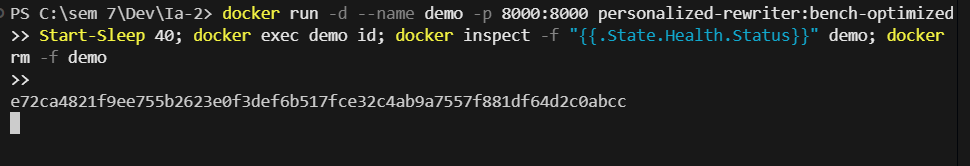
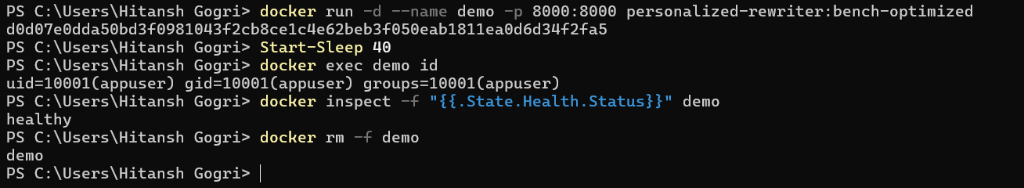
LT-I evidence: blind CI diagnosis screenshots, CI duration screenshots, EXP-03 timing and both AI runs

Changed region(s): [[0.0, 0.0301, 0.9897, 0.9639]]

diff --git a/docs/experiment_log.md b/docs/experiment_log.md
@@ -111,7 +111,7 @@ GitHub-hosted runners start clean, so every run pulls the base image. The smalle
 | Date | 2026-09-27 |
 | Purpose | DEVOPS AI: does AI reduce the effort to find the root cause of a failed pipeline? |
 | Setup | A realistic validation bug was introduced on branch `demo/run-a` (PR #9) **without revealing it to the developer** (PROJECT_PLAN D8) |
-| Failed run | 36330985633 (`test` failed: 3 failed, 36 passed; later stages skipped) |
+| Failed runs | 36330985633 (#14) and 36330985512 (#13), the same commit, triggered twice by a simultaneous force-push of `main` and the PR branch (`test` failed: 3 failed, 36 passed; later stages skipped) |
 | Input to AI | Sanitized `test` log + job results |
 | Prompt version | `ci-v1` |
 | Model returned | `nvidia/nemotron-3-super-120b-a12b:free` · 2049 prompt / 511 completion tokens |
@@ -120,8 +120,11 @@ GitHub-hosted runners start clean, so every run pulls the base image. The smalle
 
 | | Stage | Root cause | File / line | Time |
 |---|---|---|---|---|
-| Developer (manual, raw log only) | ✅ test | ❌ not identified | ❌ not identified | stopped without a diagnosis |
-| DevOps AI | ✅ test | ✅ "validation for empty/whitespace notes missing; returns 200 instead of 422" | ⚠ `tests/test_validation.py:9`: where the failure surfaced, not the source file | **3965 ms** |
+| Developer (manual, raw log only) | ✅ test | ❌ not identified | ❌ not identified | stopped after ~2–3 min without identifying the cause or file |
+| DevOps AI, run #14 | ✅ test | ✅ "validation for empty/whitespace notes missing; returns 200 instead of 422" | ⚠ `tests/test_validation.py:9`: where the failure surfaced, not the source file | **3965 ms** |
+| DevOps AI, run #13 (independent repeat) | ✅ test | ✅ same cause ("not implemented in the endpoint … 200 instead of 422") | ⚠ same `tests/test_validation.py:9` | **5720 ms** |
+
+**Consistency:** two independent AI runs on the same failure gave the same stage, cause and file (latencies 3965 ms and 5720 ms). The duplicate run cost one extra free call.
 
 **AI limitation (stated by the AI itself):** "the exact location of the validation logic (e.g., in a Pydantic model …) must be inferred". It pointed to the failing test, not the defective source file.
 
@@ -129,6 +132,6 @@ GitHub-hosted runners start clean, so every run pulls the base image. The smalle
 
 **Extra finding surfaced by the AI's evidence:** its log excerpt shows the empty request reaching the (mocked) OpenRouter call. In production this bug would have **wasted real AI quota on empty input**, which the unit tests catch.
 
-**Conclusion:** the AI correctly identified the stage and the root cause in ~4 s, where the manual read of the raw log stopped at the stage. It narrowed the search but mislocated the file, so human verification was still required to find and fix the defect. The AI stays advisory.
+**Conclusion:** the AI correctly identified the stage and the root cause in ~4–6 s (vs ~2–3 min manual without a result), where the manual read of the raw log stopped at the stage. It narrowed the search but mislocated the file, so human verification was still required to find and fix the defect. The AI stays advisory.
 
 **Pipeline bug found during this experiment:** the first attempt (run 36330681093) crashed the `ai-diagnose` job (exit code 2). With a single failed job, `download-artifact` extracts the log straight into the target folder, so the per-job lookup found nothing. It was fixed in the workflow and the blind run was repeated with the same planted bug.
